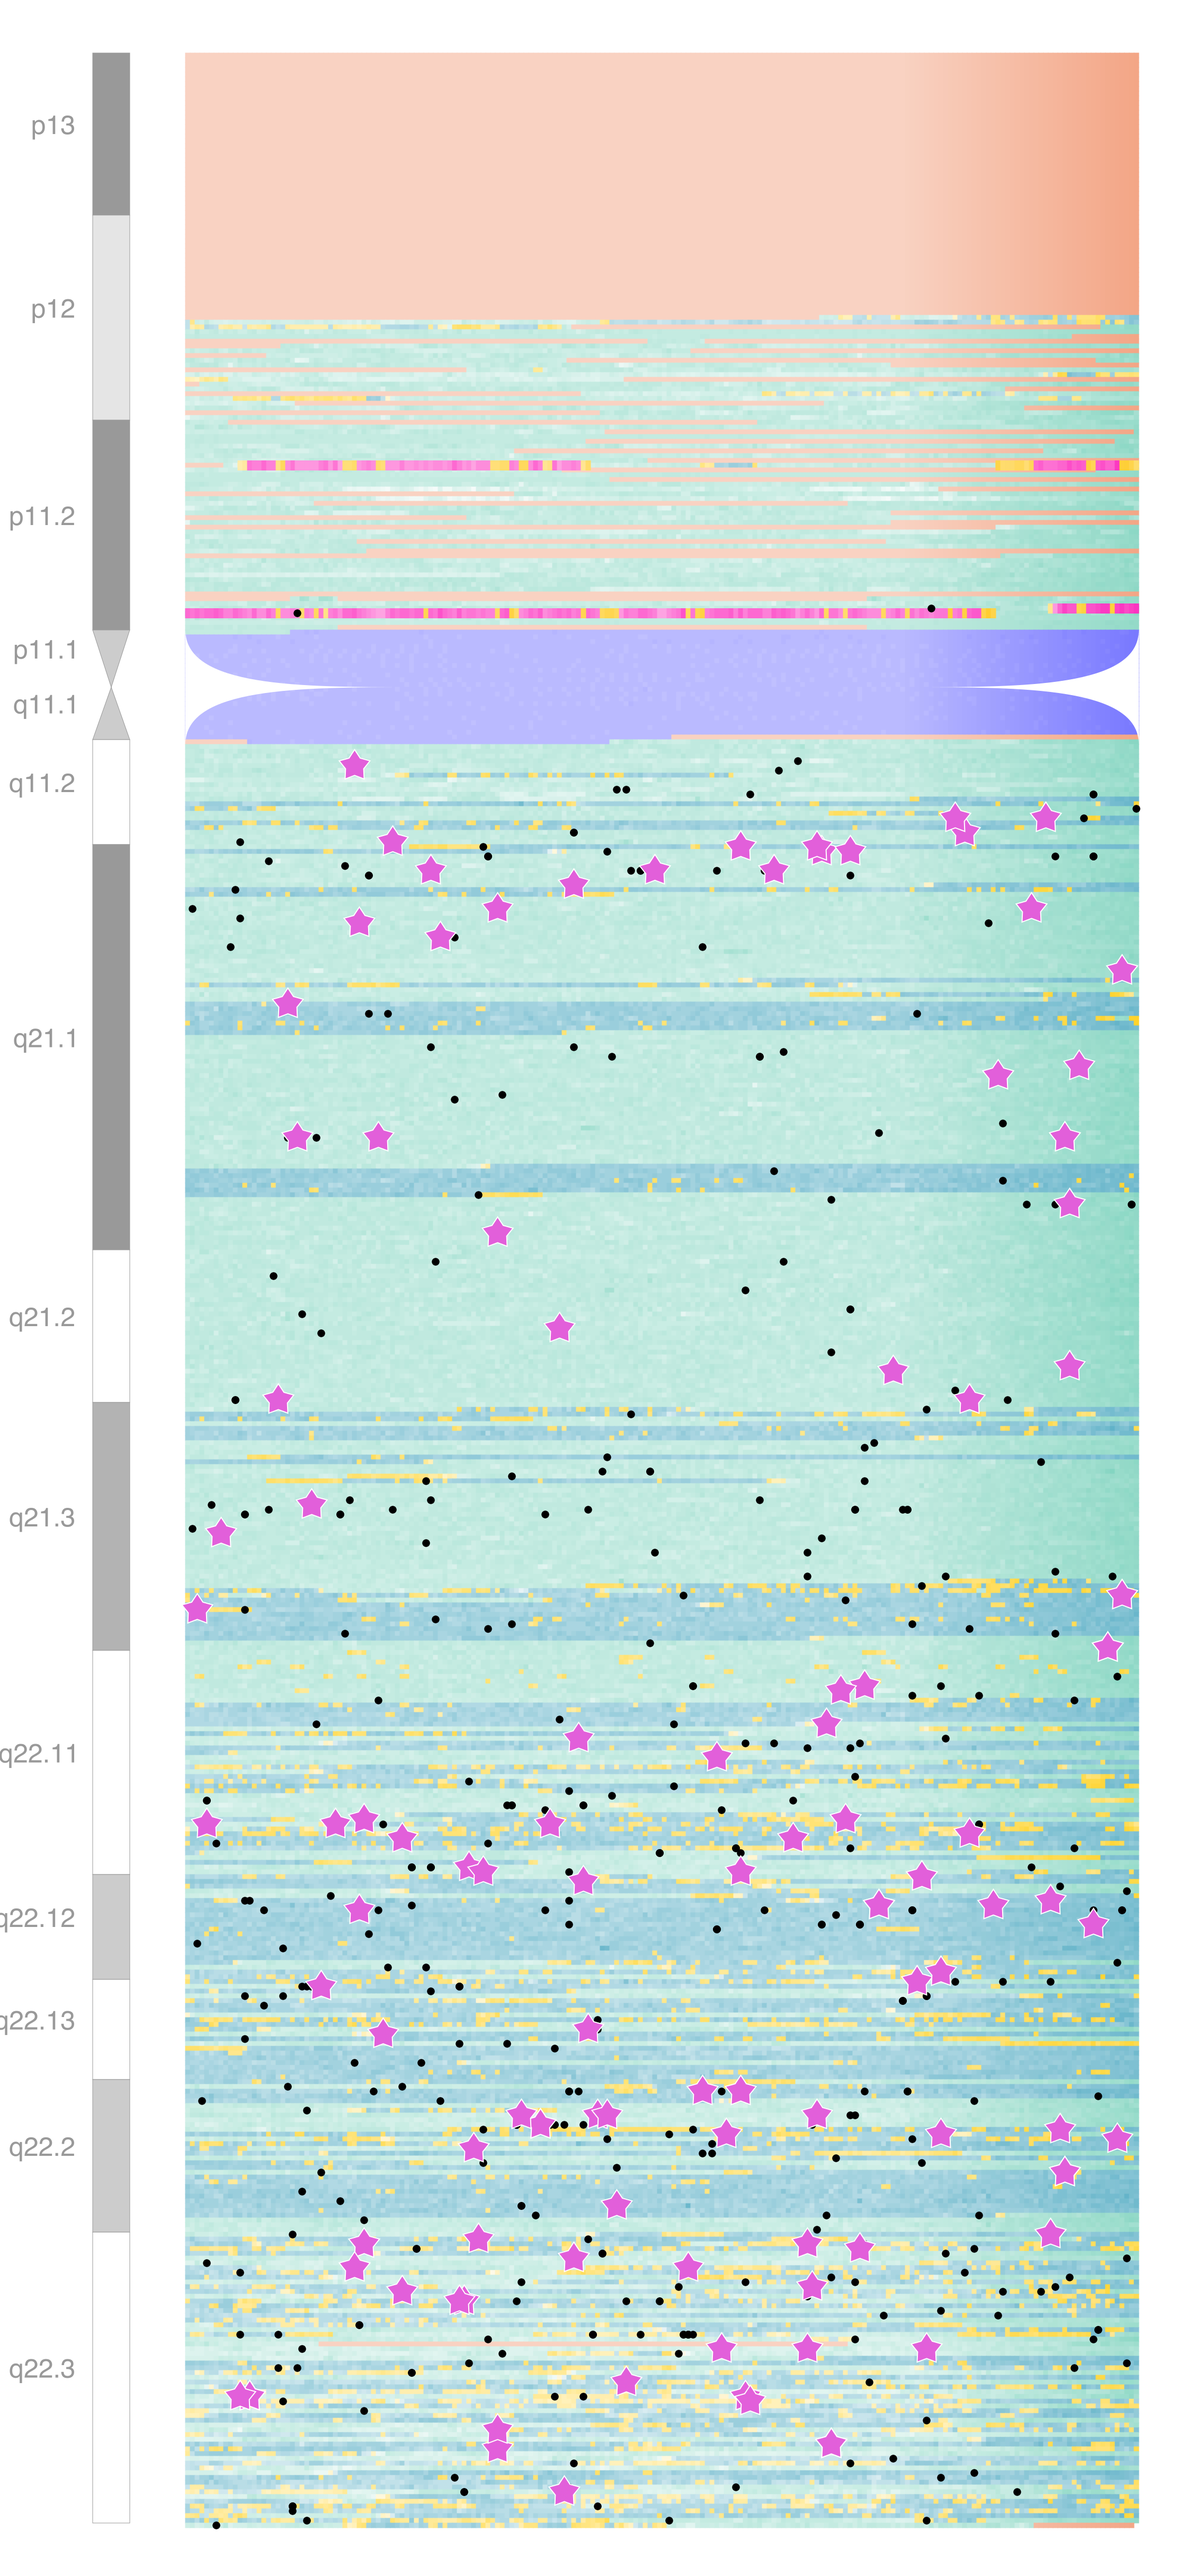
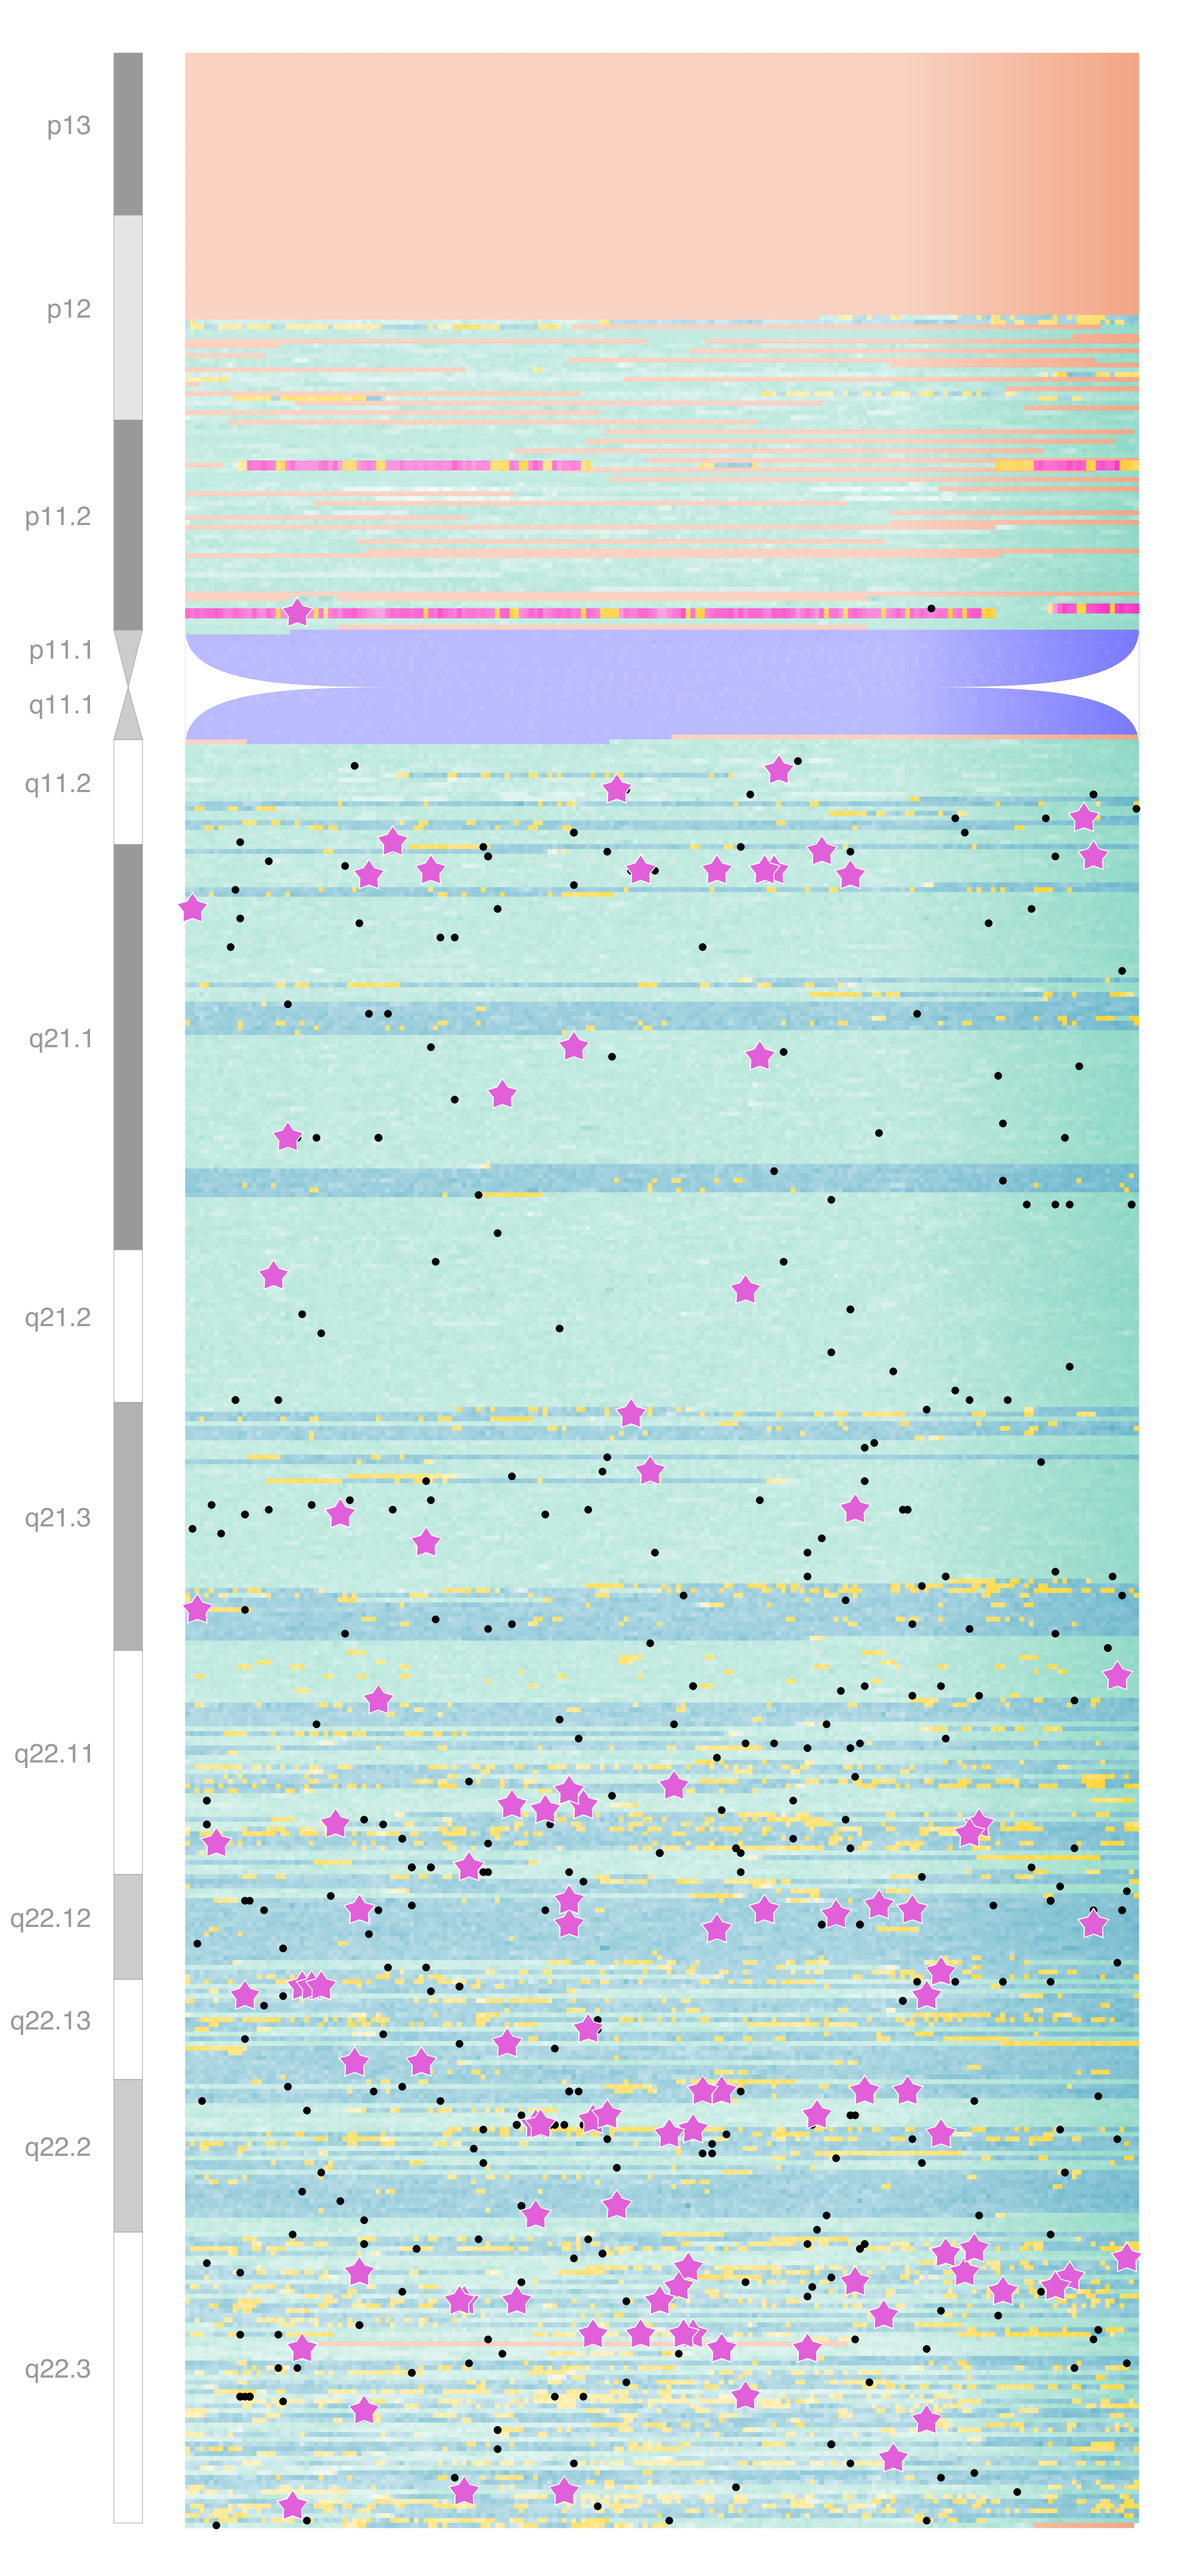
Updating plotting, cytobands are added, annotations are added...

diff --git a/functions/SVG_plot.py b/functions/SVG_plot.py
@@ -27,8 +27,8 @@ class SVG_plot:
         self.margins = margins
 
         # Constants for the cytobnand plot:
-        self.cband_x1 = self.margins[0] * 0.5
-        self.cband_x2 = self.margins[0] * 0.7
+        self.cband_x1 = self.margins[0] - 9 * pixel
+        self.cband_x2 = self.margins[0] - 15 * pixel
         self.cband_width = (self.cband_x2 - self.cband_x1)
         self.cband_colors = {
             'gneg'    : '#FFFFFF', # White
